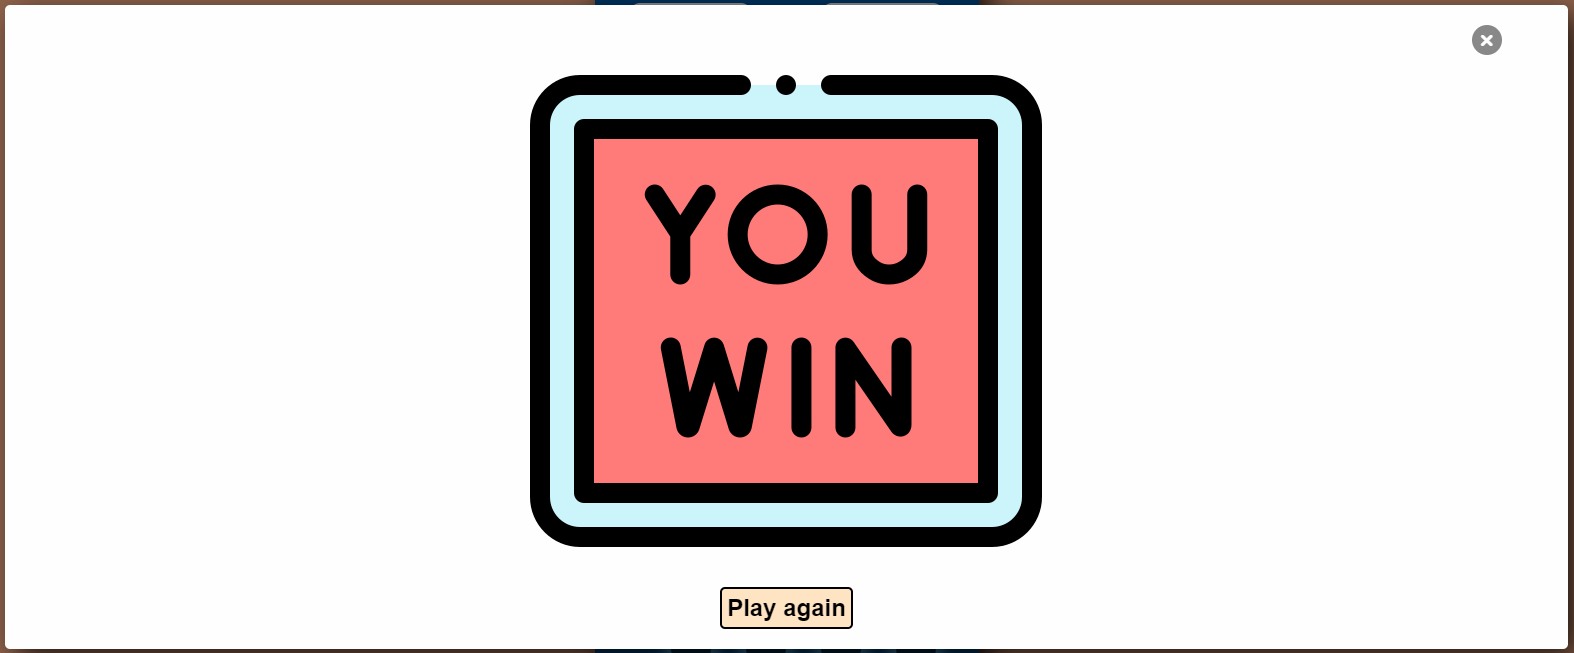
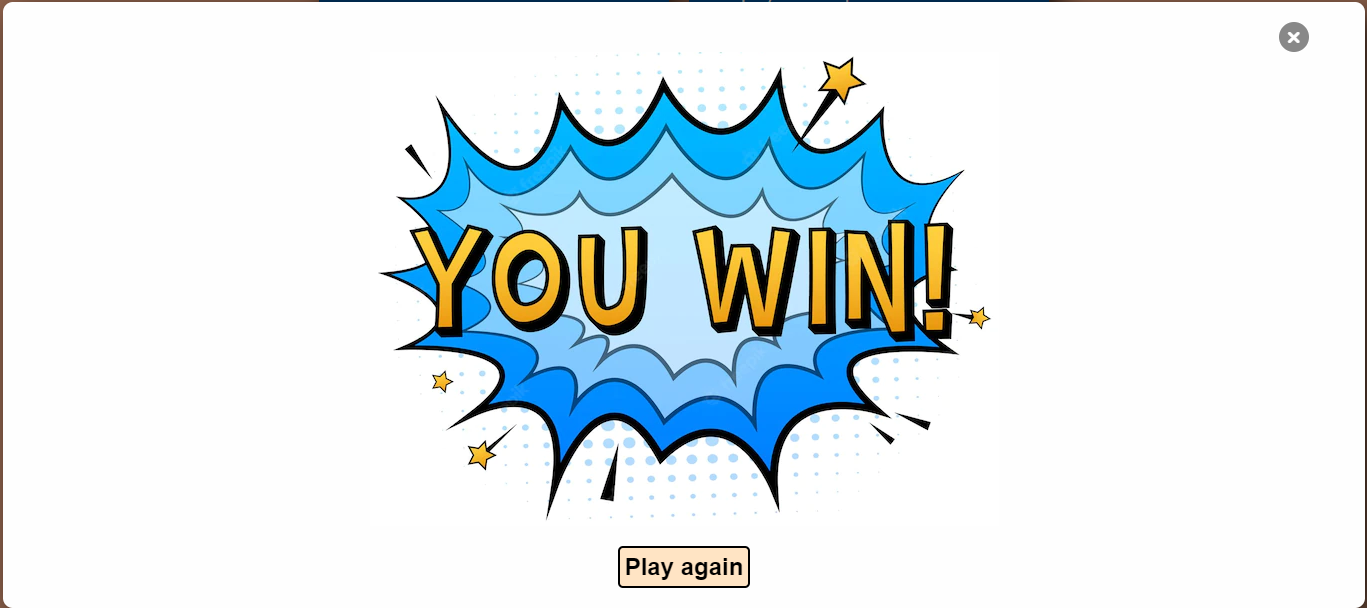
add readme.md content and minor style change

Changed region(s): [[0.2765, 0.0938, 0.7374, 0.8438], [0.0, 0.0, 1.0, 1.0]]

diff --git a/index.html b/index.html
@@ -235,7 +235,8 @@
                 </div>
             </div>
 
-            <button type="button" aria-label="submit" id="submit" onClick="compareCodes();"><i class="fa-solid fa-check"></i></button>
+            <button type="button" aria-label="submit" id="submit" onClick="compareCodes();"><i
+                    class="fa-solid fa-check"></i></button>
             <!-- the submit button will appear only when the four Code breaker colors will be inserted-->
         </div>
 
@@ -249,44 +250,40 @@
                     from.</p>
                 <p>
                     Each round, the player creates a colors pattern in the highlighted row by clicking the
-                    spots several </p>
+                    spots several times.</p>
                 <p>
                     When 4 colors are inserted, the "Submit" button will change color and become clickable.</p>
                 <p>
-                    After
-                    submision,
-                    the game checks if the colors are placed correctly and then gives up to
-                    4 clues.</p>
+                    After submision, the game gives up to 4 clues.</p>
             </section>
 
             <section class="rules">
                 <h2>Clues</h2>
                 <p>
-                    The 4 dots displayed in a square next to the code preparation area serve as clues.<br> There are 3
-                    types of clue:</p>
+                    The 4 dots next to the color rows are clues.</p>
 
                 <p>
                     <ul>
-                        <li><b>Red</b> clue = there is a correct color in the correct place.</li>
-                        <li><b>White</b> clue = a correct color is in the wrong place.</li>
-                        <li>An <b>empty</b> clue = a wrong color has been chosen.</li>
+                        <li><b>Red clue</b> = there is a correct color in the correct place.</li>
+                        <li><b>White clue</b> = a correct color is in the wrong place.</li>
+                        <li><b>Empty clue</b> = a wrong color has been chosen.</li>
                     </ul>
                 </p>
-                <hr>
             </section>
 
             <section class="rules">
 
                 <h2><i class="fa-solid fa-triangle-exclamation"></i> WARNING <i
                         class="fa-solid fa-triangle-exclamation"></i></h2>
-                The clues order does not refer to the colors position in the guess.<br>
-
-                That means, if the first two clues are red, the first two colors in the
-                guess are not automatically correct.
+                <p>
+                    The clues order does not refer to the colors position in the guess.
+                </p>
+                <p>
+                    That means, if the first two clues are red, the first two colors in the
+                    guess are not automatically correct.</p>
 
             </section>
         </div>
-
     </div>
 
     <div id="popupModal" class="modal">

diff --git a/assets/css/style.css b/assets/css/style.css
@@ -20,13 +20,13 @@ body {
 }
 
 #rules-container {
-    width: 400px;
+    width: 380px;
 }
 
 .rules {
     font-size: 105%;
     height: auto;
-    margin: 20px 0 0 20px;
+    margin: 10px 0 0 20px;
     padding: 15px;
     border-radius: 15px;
     background-color: #00539C;
@@ -51,7 +51,7 @@ body {
 
 #full-board {
     height: auto;
-    margin-top: 20px;
+    margin-top: 10px;
     min-width: 350px;
     width: 20vw;
     border-radius: 15px;
@@ -340,7 +340,7 @@ body {
     margin: auto;
     padding: 20px;
     width: 80%;
-    border-radius: 5px;
+    border-radius: 10px;
     display: flex;
     flex-direction: column;
     box-shadow: 10px 10px 30px rgb(0 0 0 / 80%);

diff --git a/README.md b/README.md
@@ -1,5 +1,6 @@
 # mastermind-game
 ![Mastermind on devices](assets/readme-files/amiresponsiveMaster.PNG)
+
 [Click here to access live project](https://ludovicleguen.github.io/Mastermind/)
 ## Table of contents
 1. [Introduction](#Introduction)
@@ -76,11 +77,11 @@ The website will focus on the following target audience
     * Puzzle solver
 
 All Users must be able to:
-    * Play the Mastermind board game
-    * Find the instructions
-    * Restart a game at will
-    * Know when they win and loose
-    * Play each game with a random code to break 
+* Play the Mastermind board game
+* Find the instructions
+* Restart a game at will
+* Know when they win and loose
+* Play each game with a random code to break 
    
 #### Scope
 
@@ -91,7 +92,7 @@ Now that we have established the goals of the website we can deduce the necessar
     * Win and loose modals
 
 * Required functionality
-    * A start/reset button
+    * A Refresh button
     * An instruction button
     * Modals when user wins, looses or see instructions
 
@@ -103,7 +104,7 @@ The website will consist of 1 page.
     
 #### Skeleton
 
-With the structure now in place the designer has created wireframes on [Balsamiq Wireframes](https://balsamiq.com) as a base to build the website. 
+With the structure now in place the designer has created wireframes on [Balsamiq Wireframes](https://balsamiq.com) as a base to build the website. The developper took the liberty to improve the design along the way. 
 
 <details>
 <summary>Desktop Wireframes</summary>
@@ -181,11 +182,11 @@ The submit button uses the green and green yellow colors. The modal uses #fefefe
 
 #### Typography
 
-The developper has chosen 'Cormorant' from [Google Fonts](https://fonts.google.com/) and 'Courier New'.
+The developper has chosen 'Cormorant' from [Google Fonts](https://fonts.google.com/) Verdana, Geneva, Tahoma, sans-serif and 'Courier New'.
 
-Cormorant was used on the entire website while CourierNew was used exclusively on the close button of the modal (letter x).
+'Verdana' was used on the main board and rules, 'Cormorant' was used in the modals and finally 'Courier New' was used exclusively on the close button of the modal (letter x).
 
-[Back to top ⇧](#Abyss-diving-club)
+[Back to top ⇧](#mastermind-game)
 
 ## Features
 ### Design Features
@@ -198,19 +199,25 @@ The website consists of a single page with all features visible at one (except m
 
 ![Board](assets/readme-files/board.png)
 
+- **The rules** - The rules are here to help first time users.  
+    The rules are simple and cut in 3 parts.
+    It serves a simple purpose: help users know how to play the game immediately.
+
+![Rules](assets/readme-files/main-rules.png)
+
 - **Footer** - The footer contains 2 centered social links, takes the full width of any screen and has a fixed height. The links simply redirect to the gihub profile of the developper and to the repository.
 
 ![Footer](assets/readme-files/footer.png)
 
-- **Refresh button** - The refresh button refreshes the page and essentially resets the game.
+- **Refresh button** - The refresh button refreshes the page and essentially resets the game. it is always visible, whatever the resolution of the device.
 
 ![Refresh button](assets/readme-files/refresh.png)
 
-- **Rules button** The rules button opens a modal that contains the rules. The rules are actually displayed in several modals with an intuitive interface to navigate them.
+- **Rules button** The rules button appears only when the device width is lower than 750 px. It opens a modal that contains the rules. The rules are actually displayed in several pages with an intuitive interface to navigate them.
 
 ![Rules button](assets/readme-files/rules.png)
 
-- **Secret code** The secret code is the goal of the game users will play to break it. The secret color is revealed when the users break the code (and therefore wins) or when the users cannot break the code in less than 12 turns. The secret code is randomly created at the beginning of each turn. The code can only contain unique colors.
+- **Secret code** The secret code is the goal of the game: users will play to break it. The secret color is revealed when the users break the code (and therefore wins) or when the users cannot break the code in less than 12 turns (and therefore lose). The secret code is randomly created at the beginning of each turn. The code can only contain 4 unique colors.
 
 ![Secret code hidden](assets/readme-files/secret.png) 
 ![Secret code revealed](assets/readme-files/revealed.png) 
@@ -229,7 +236,7 @@ In order to be clear and simple to use, the button is not clickable as long as t
 
 ![Submit button](assets/readme-files/rows.png)
 
-- **The Modals** are a very important feature of the game. There is actually only one modal that is constantly filled with content at opening and emptied when closed. Here is the different content:
+- **The Modals** are a very important feature of the game. This is actually only one modal that is dynamically filled with content at opening and emptied when closed. Here is the different content:
         
     * The win Modal
     ![Board rows](assets/readme-files/win.png)
@@ -261,6 +268,7 @@ In order to be clear and simple to use, the button is not clickable as long as t
 
 ### Existing Features
 - **The board** - Main element of the unique page of the website.
+- **The rules** - Second element of the unique page of the website.
 - **Footer** - Found at the bottom of the page.
 - **Refresh button** - at the top of the board. Allows users to reset a game
 - **Rules button** - at the top of the board. Is available at all times and will not break a game when closed.
@@ -273,15 +281,33 @@ In order to be clear and simple to use, the button is not clickable as long as t
 - **Color line** - Is both decorative and informative as its show the actual flow of colors when the user toggle colors. 
 
 ### Features to Implement in the future
-* Human vs human
+- **Human VS Human** -
 A human vs human mode could be fun. A user would create a secret code and the second player would have to find it.
-* A score count
+- **Score Count** -
 The score count could be added to motivate the user in beating either the CPU or a human.
 
 [Back to top ⇧](#mastermind-game)
 
 ## Issues and Bugs 
+During the development the debvelopper encountered several bugs and to his knowledge has corrected them all but one.
+### Fixed Bugs
+- **The modals** - The use of modals prooved to be more painful than expexted. The developper used IDs and classes to caracterize each different modal. In other words, the developper intended to create several modals instead of using just one and fill it with different content.
+After several trials, the devlopper hascedcided to use different Template Literals wthat will fill the unique modal. 
 
+- **The modal pictures** - The modal pictures were overflowing the modal container when screens were too small. A simple change in css of the "description img" class fixed the problem with
+    margin: 0 auto;
+    max-width: 100%;
+    max-height: 100%;
+    display: block;
+
+- **The secret code random colors** - The secret code was able to have several identical in it. The same color could be used even 4 times. This caused problems with the clues. 
+As a matter of fact, th real Mastermind rules mention that the code creater must not use twice the same color. The random color function was modified to fix that issue. 
+
+- **The winning bug** - The users could still play after a win. If the user happened to close the Win Modal by clicking on the close button or outside the modal, they could still click on the colors pegs and therefore activate the submit button. The issue was fixed by createing a new function to set the onClick event to Null and therefore stop the game. 
+
+### Unfixed Bugs 
+
+- **The mobile modals** -The modals bottom content cannot be reached when the user flips the phone to landscape view. 
 
 ## Technologies Used
 ### Main Languages Used
@@ -314,13 +340,25 @@ To deploy this page to GitHub Pages from its GitHub repository, the following st
 
 ## Credits 
 ### Media
+* The good luck image used in the rules modal (for mobiles) was taken from [flaticon.com](https://www.flaticon.com/fr/icone-gratuite/bonne-chance_5052310?related_id=5052360&origin=search)
 
+* The rules of the games were largely inspired by [info.lite.games](https://info.lite.games/en/support/solutions/articles/60000688841-master-mind-deluxe-rules#:~:text=In%20MasterMind%20Deluxe%20the%20player,turns%20to%20crack%20the%20code.)
+
+* The Fail picture used on the lose modal was taken from [vectorstock.com](https://www.vectorstock.com/royalty-free-vector/epic-fail-blue-round-grunge-stamp-vector-16796649)
+
+* The Win image used in the Win modal was taken from [pngtree.com](https://pngtree.com/freepng/comic-speech-bubbles-with-text-you-win_7880780.html)
 
 ### Code 
-
+* The color animation for the refresh and rules buttons were tken from [sliderrevolution](https://www.sliderrevolution.com*/)
+* The submit icon glow was taken from [unused-css.com](https://unused-css.com/blog/css-outer-glow/)
+* The Modal was inspiredby [w3schools](https://www.w3schools.com/w3css/w3css_modal.asp)
+* Part of my code was inspired by John DeHart's game [Codebreaker](https://github.com/jdhart7/CodeBreaker)
 
 ## Acknowledgements
 
+- I would like to thank my wife Dominika for her feedback and her patience with me.
+- I would like to thank my my mentor, Koko for their invaluable help and guidance throughout the process.
+- Last but not he least, I would like to sincerly thank my Slack companions who helped me a lot! 
 
 [Back to top ⇧](#mastermind-game)
 
